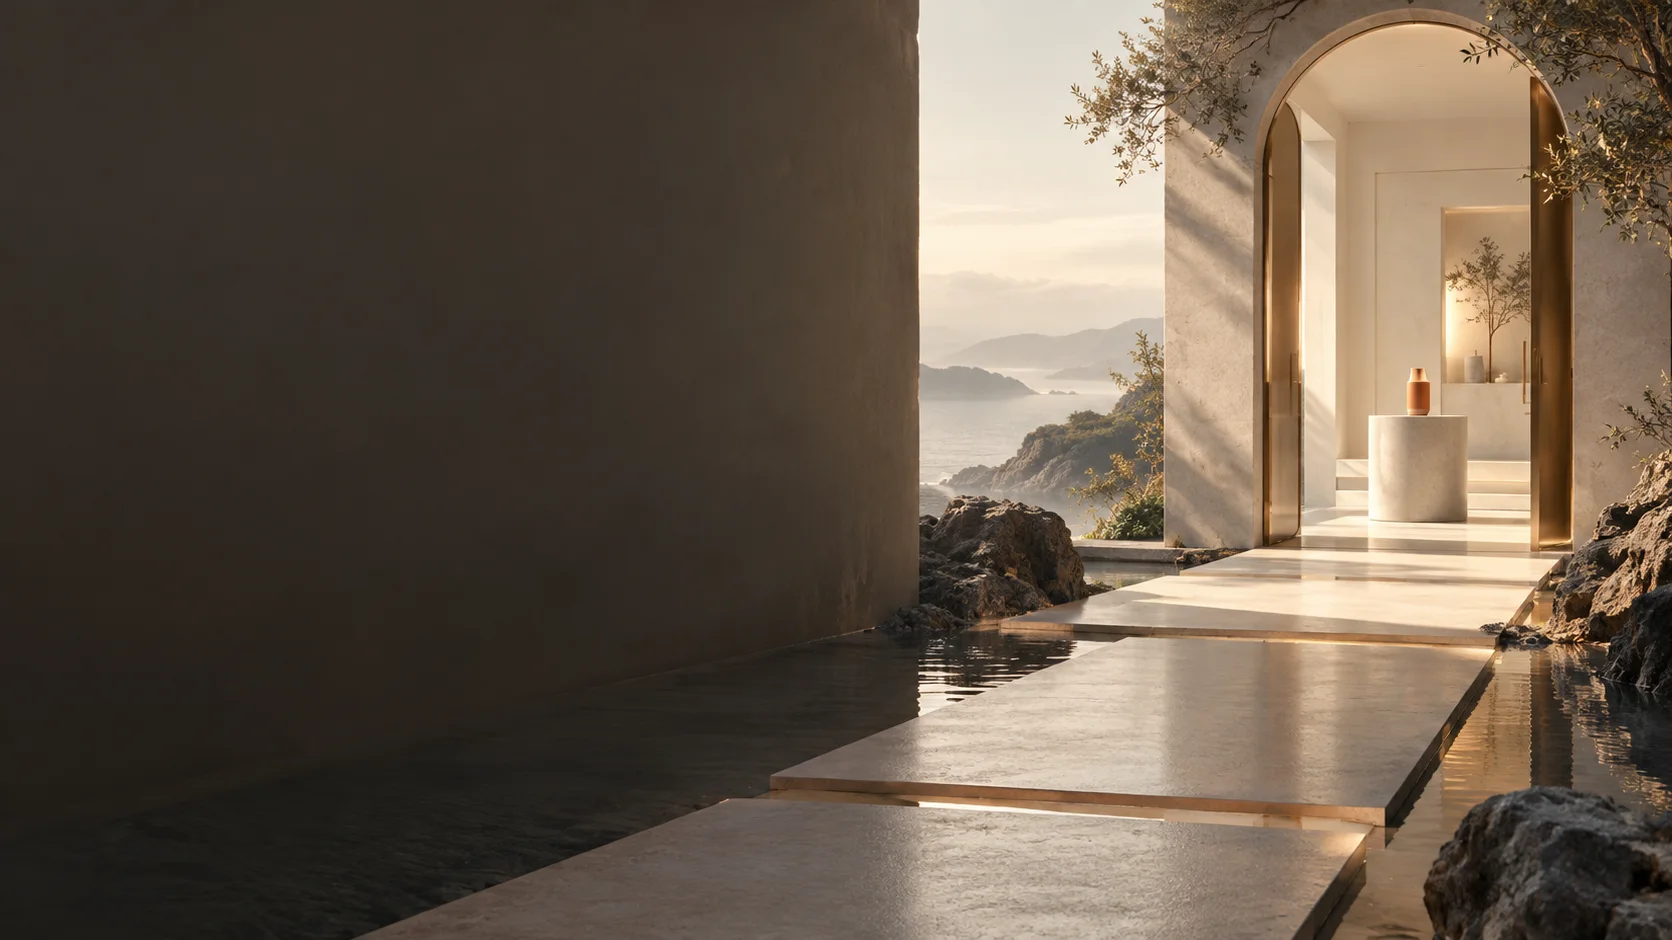
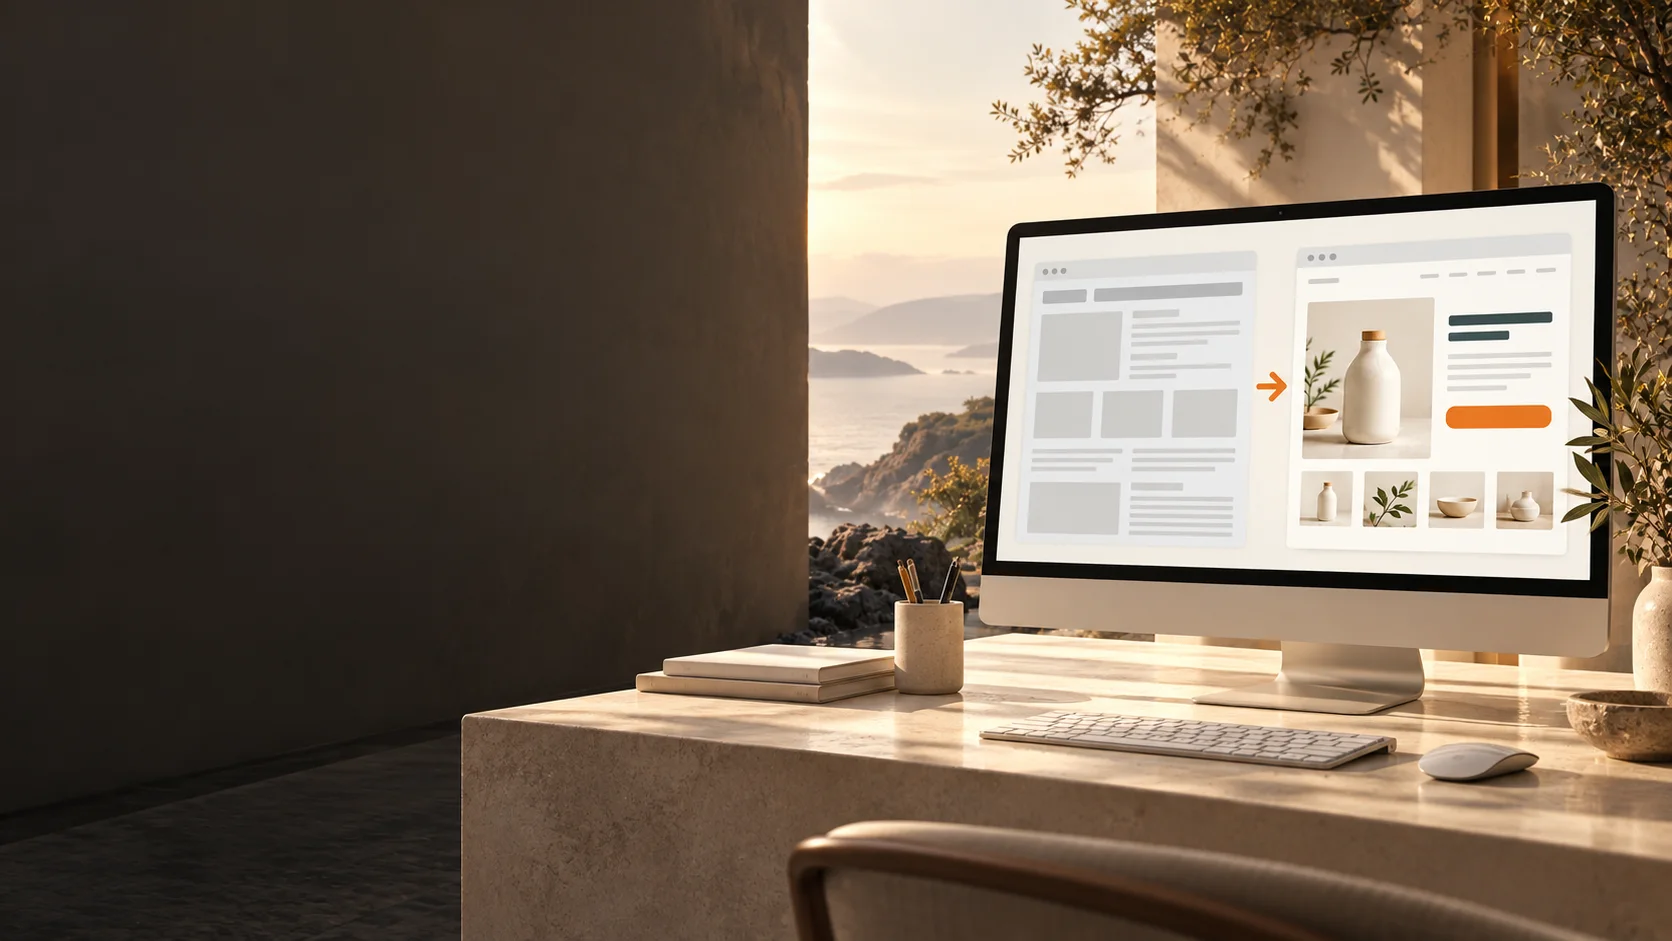
Fix carousel image seams and align service imagery

diff --git a/app/_home/home-data.ts b/app/_home/home-data.ts
@@ -142,13 +142,13 @@ export const videos: Video[] = [
 
 /** 老闆的痛點：為什麼要跟我們合作。href 指向對應的價格。
  *  thumb 是排隊時的小圖、image 是輪到它放大後換上的大圖（放在 public/，沒有就用色塊）。 */
-export type Pain = { tag: string; title: string; body: string; href?: string; video?: Video['key']; market?: number; price?: number; thumb?: string; image?: string; mobileImage?: string; imagePosition?: string; tabletImagePosition?: string };
+export type Pain = { tag: string; title: string; body: string; href?: string; video?: Video['key']; market?: number; price?: number; thumb?: string; image?: string; mobileImage?: string; imagePosition?: string; tabletImageBottom?: number };
 export const pains: Pain[] = [
-  { tag: 'AI 剪片', title: '熱門話題等剪完，熱度早就沒了', body: '請一位專職剪輯，又沒有足夠的片量讓他天天剪。交給 AI 剪片，素材丟進來很快就出片，趁話題還熱就上架。', video: 'edit', thumb: '/home/pains/thumbs/ai-edit.webp', image: '/home/pains/ai-edit.webp' },
+  { tag: 'AI 剪片', title: '熱門話題等剪完，熱度早就沒了', body: '請一位專職剪輯，又沒有足夠的片量讓他天天剪。交給 AI 剪片，素材丟進來很快就出片，趁話題還熱就上架。', video: 'edit', thumb: '/home/pains/thumbs/ai-edit.webp', image: '/home/pains/ai-edit.webp', mobileImage: '/home/pains/thumbs/ai-edit.webp' },
   { tag: 'AI 數字人', title: '老闆不好意思露臉', body: '讓大量 AI 數字人幫你介紹、推薦商品。不同人物、不同口吻，打進不同客群。', video: 'ugc', thumb: '/home/pains/thumbs/digital-human.webp', image: '/home/pains/digital-human.webp', mobileImage: '/home/pains/digital-human-mobile.webp' },
-  { tag: '狗血劇商品介紹', title: 'AI 短劇正在佔滿大家的碎片時間', body: '別在這波熱潮脫隊。讓霸總拯救少女的時候，順手置入你的品牌商品。', video: 'drama', thumb: '/home/pains/thumbs/drama.webp', image: '/home/pains/drama.webp', mobileImage: '/home/pains/thumbs/drama.webp', tabletImagePosition: 'center calc(100% - 140px)' },
-  { tag: '真人推薦影片', title: '網友買東西，先看評價', body: '我們安排各種不同身分的真實素人，拍攝你的品牌商品，留下真實的使用心得。', href: '#contact', market: 12000, price: 2500, thumb: '/home/pains/thumbs/real-review.webp', image: '/home/pains/real-review.webp', mobileImage: '/home/pains/thumbs/real-review.webp', imagePosition: 'center bottom', tabletImagePosition: 'center calc(100% - 120px)' },
-  { tag: '網站優化', title: '廣告、KOL 把人帶進賣場，客人卻走了', body: '看不懂你在賣什麼、文不對題、圖也不好看。我們把網站內容改到客人看得懂、願意買。', href: '#offer-optimize', thumb: '/home/pains/thumbs/store-optimization.webp', image: '/home/pains/store-optimization.webp' },
+  { tag: '狗血劇商品介紹', title: 'AI 短劇正在佔滿大家的碎片時間', body: '別在這波熱潮脫隊。讓霸總拯救少女的時候，順手置入你的品牌商品。', video: 'drama', thumb: '/home/pains/thumbs/drama.webp', image: '/home/pains/drama.webp', mobileImage: '/home/pains/thumbs/drama.webp', tabletImageBottom: 140 },
+  { tag: '真人推薦影片', title: '網友買東西，先看評價', body: '我們安排各種不同身分的真實素人，拍攝你的品牌商品，留下真實的使用心得。', href: '#contact', market: 12000, price: 2500, thumb: '/home/pains/thumbs/real-review.webp', image: '/home/pains/real-review.webp', mobileImage: '/home/pains/thumbs/real-review.webp', imagePosition: 'center bottom', tabletImageBottom: 120 },
+  { tag: '網站優化', title: '廣告、KOL 把人帶進賣場，客人卻走了', body: '看不懂你在賣什麼、文不對題、圖也不好看。我們把網站內容改到客人看得懂、願意買。', href: '#offer-optimize', thumb: '/home/pains/thumbs/store-optimization.webp', image: '/home/pains/store-optimization.webp', mobileImage: '/home/pains/thumbs/store-optimization.webp' },
 ];
 
 export type Pack = { key: ServiceKey; qty: string; price: number; per: string };

diff --git a/app/_home/home.css b/app/_home/home.css
@@ -341,7 +341,7 @@ body { margin: 0; background: #fbf6f2; }
 .ace-stage-card.is-active > * { opacity: 0; }
 .ace-stage-card.is-returning { transition: opacity .5s ease .8s; }
 .ace-stage-copy { position: absolute; inset: 0; z-index: 4; display: flex; flex-direction: column; justify-content: center; align-items: flex-start; gap: 12px; padding-block: 56px 150px; pointer-events: none; }
-.ace-stage-copy > * { max-width: min(44%, 520px); animation: ace-rise .6s var(--ace-ease) .45s both; }
+.ace-stage-copy > * { max-width: min(44%, 520px); }
 .ace-stage-copy a, .ace-stage-copy button { pointer-events: auto; margin-top: 8px; }
 .ace-stage-price { display: flex; flex-wrap: wrap; align-items: baseline; gap: 6px 22px; }
 .ace-stage-price span { font-size: 15px; opacity: .92; }
@@ -488,8 +488,9 @@ body { margin: 0; background: #fbf6f2; }
 }
 @media (max-width: 900px) {
   .ace-stage { min-height: 1000px; background: #092f38; }
-  .ace-stage-bg { background-image: var(--stage-mobile-image); background-size: auto 50%; background-position: 72% bottom; }
-  .ace-stage-bg.has-mobile-image { background-position: center calc(100% - 115px); }
+  .ace-stage-bg { background-image: none; }
+  .ace-stage-bg::before { content: ''; position: absolute; inset: -48px; background-image: var(--stage-mobile-image); background-size: cover; background-position: center; filter: blur(38px); opacity: .48; }
+  .ace-stage-bg::after { content: ''; position: absolute; left: 50%; bottom: 115px; height: 50%; aspect-ratio: 3 / 4; transform: translateX(-50%); background-image: var(--stage-mobile-image); background-size: cover; background-position: center; background-repeat: no-repeat; mask-image: linear-gradient(90deg, transparent, #000 10%, #000 90%, transparent), linear-gradient(180deg, transparent, #000 14%, #000 86%, transparent); mask-composite: intersect; }
   .ace-stage::after { background: linear-gradient(180deg, #092f38 0%, #092f38 30%, rgba(9, 47, 56, .1) 52%, rgba(3, 22, 27, .45) 100%); }
   .ace-stage-copy { justify-content: flex-start; gap: 8px; padding-block: 92px 0; }
   .ace-stage-copy > * { max-width: min(100%, 540px); }
@@ -500,5 +501,5 @@ body { margin: 0; background: #fbf6f2; }
 }
 @media (min-width: 601px) and (max-width: 900px) {
   .ace-stage { min-height: 850px; }
-  .ace-stage-bg.has-mobile-image { background-size: auto 60%; background-position: var(--stage-tablet-position); }
+  .ace-stage-bg::after { height: 60%; bottom: var(--stage-tablet-bottom); }
 }

diff --git a/app/_home/home-client.tsx b/app/_home/home-client.tsx
@@ -234,7 +234,7 @@ function Pains() {
   const bg = (x: Pain, i: number, big: boolean) => {
     const src = big ? x.image ?? x.thumb : x.thumb ?? x.image;
     return { className: src ? big && x.mobileImage ? 'has-mobile-image' : '' : `ace-poster-${i + 1}`, style: src ? big
-      ? { '--stage-image': `url(${src})`, '--stage-mobile-image': `url(${x.mobileImage ?? src})`, '--stage-position': x.imagePosition ?? 'center', '--stage-tablet-position': x.tabletImagePosition ?? 'center calc(100% - 40px)' } as CSSProperties
+      ? { '--stage-image': `url(${src})`, '--stage-mobile-image': `url(${x.mobileImage ?? src})`, '--stage-position': x.imagePosition ?? 'center', '--stage-tablet-bottom': `${x.tabletImageBottom ?? 40}px` } as CSSProperties
       : { backgroundImage: `url(${src})` } : undefined };
   };
   return (
